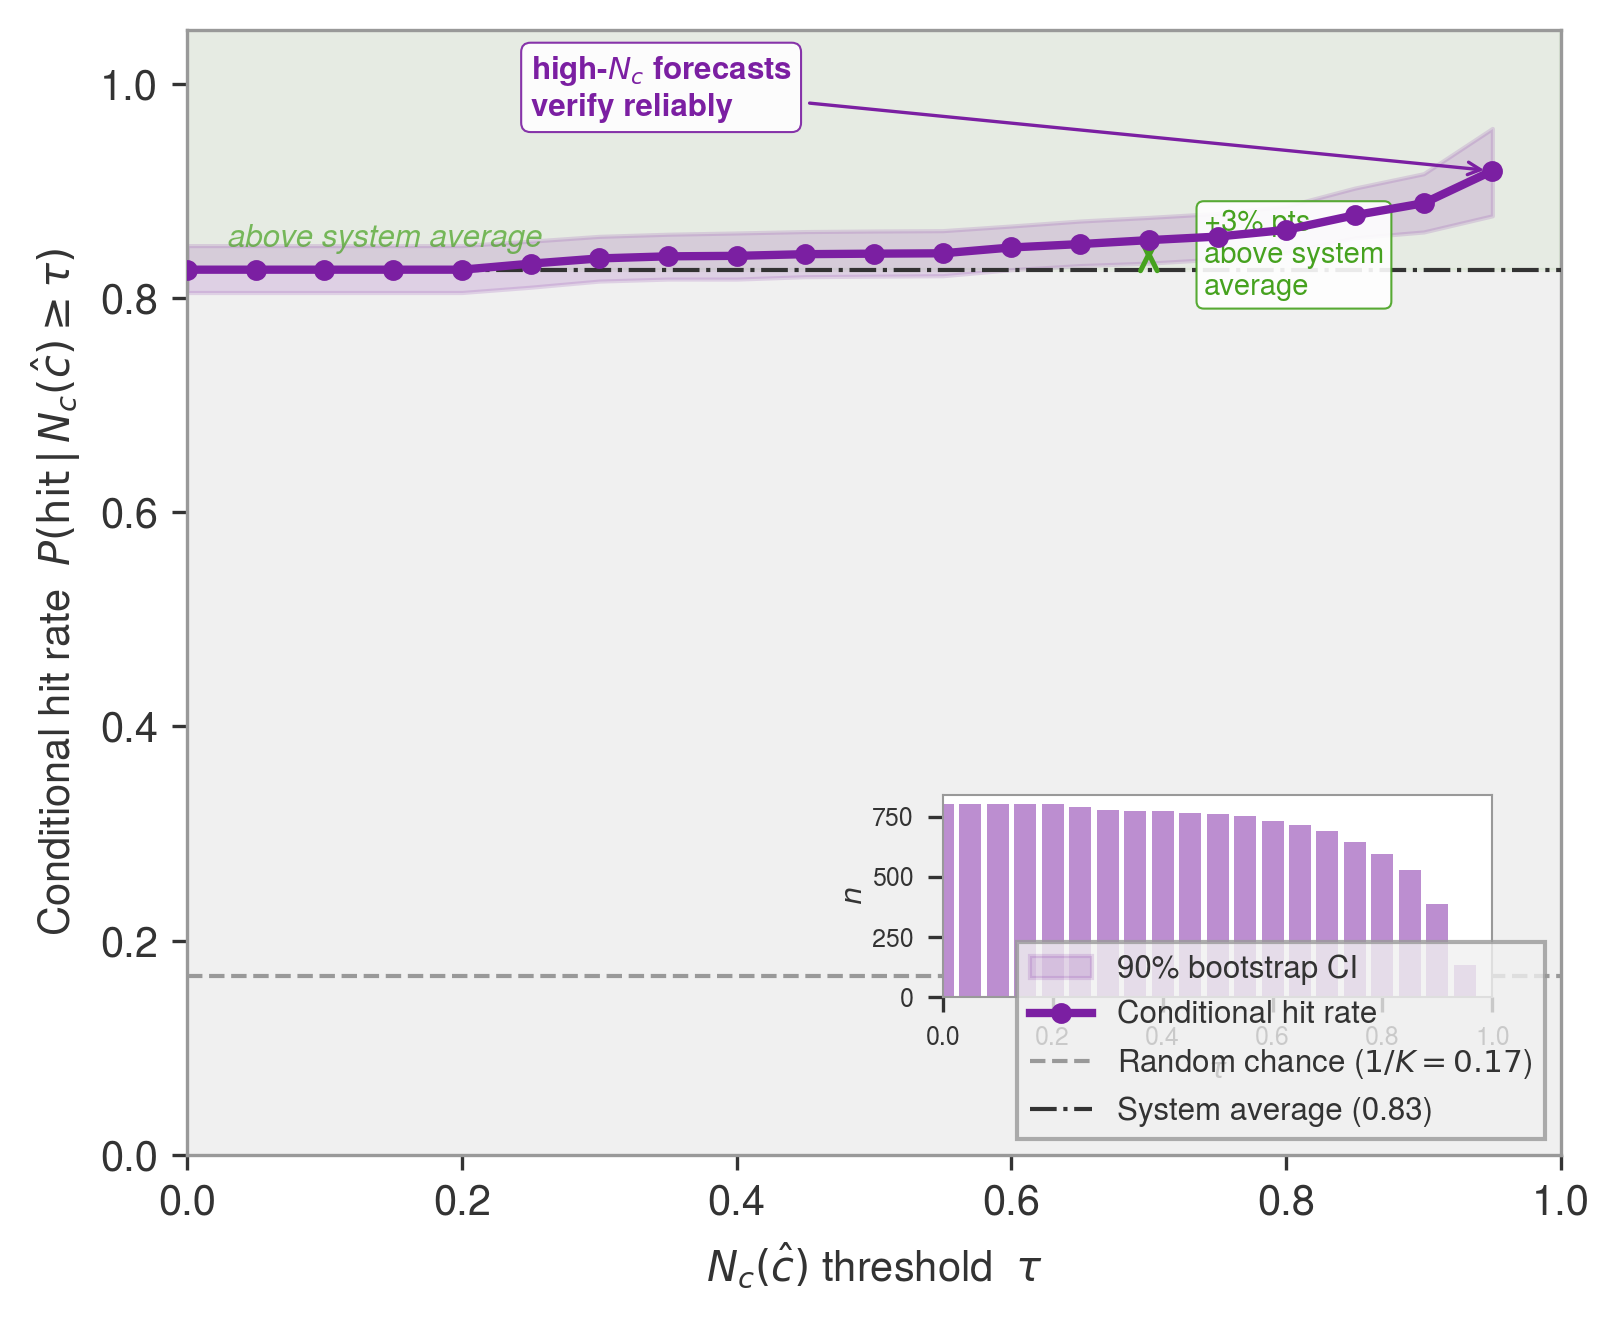
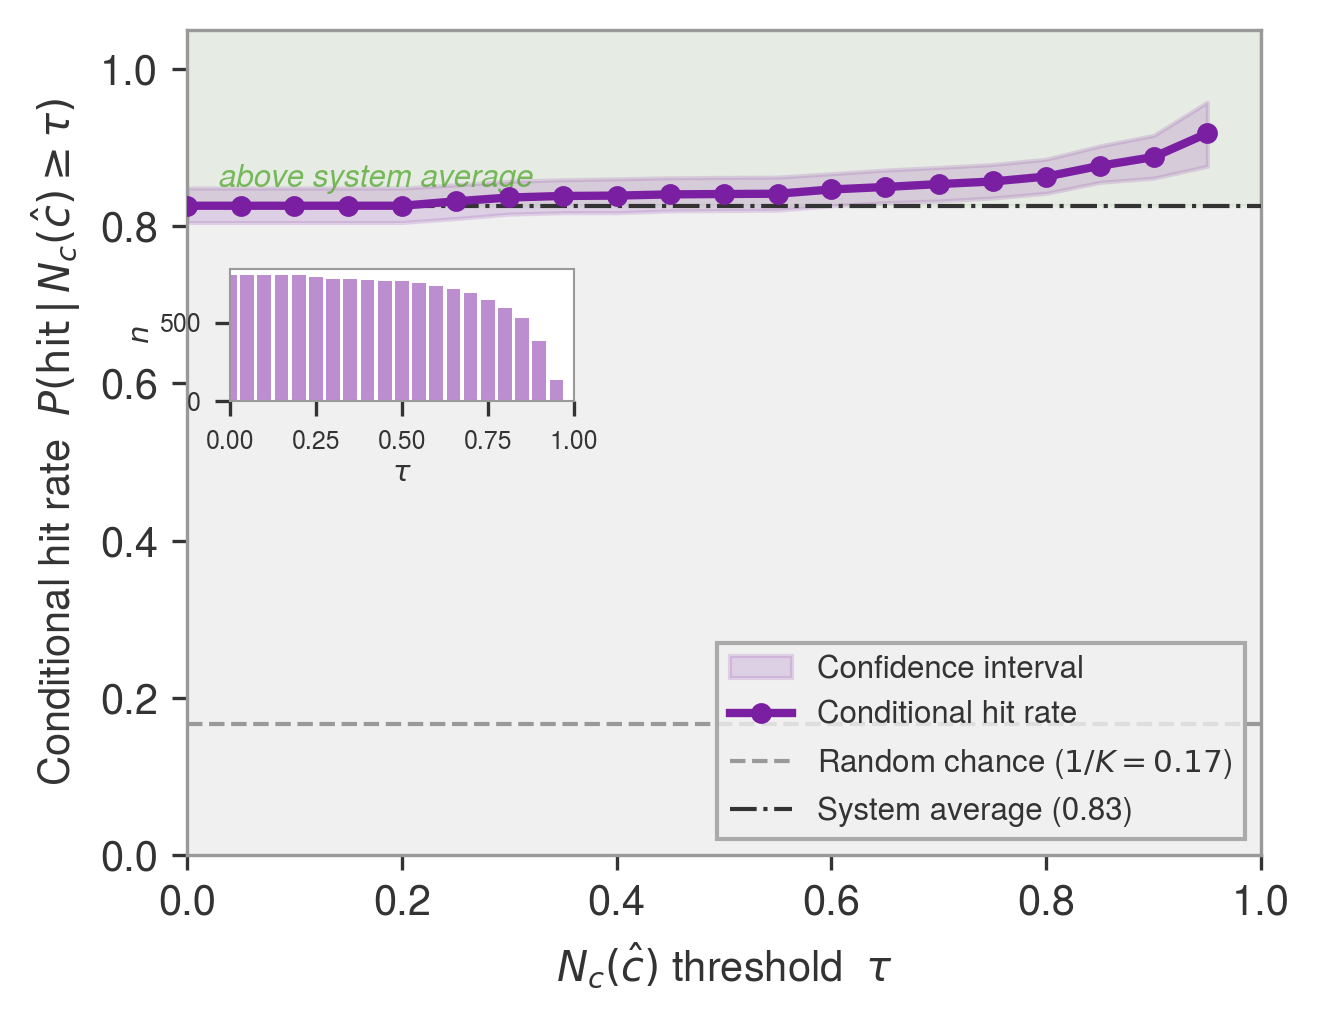
Figure polish, POD/FAR/CSI definitions, narrative improvements
Hexbin: removed smooth spline + labels from trajectory (dots only),
removed compass annotations from both diagnostic diagrams, replaced
dual colorbar with single purple H_Pi bar. Caption updated with CSI
analogue for S contours and "upper right = ideal" framing.

Reliability figure: shrunk to 0.75-column, moved inset to upper-left,
removed callout annotations, simplified CI label. Body text now
explains why curve is flat (high baseline) and why uptick is notable.

Defined POD, FAR, CSI, HSS inline at first mention (§5) with formulas.
Added forward pointer in introduction for categorical-metric readers.
Expanded figure narration for categorical scores, IG decomposition,
and commitment diagram. Simplified synthetic-data h passage.

diff --git a/sections/05-native-verification.tex b/sections/05-native-verification.tex
@@ -286,12 +286,12 @@ peak:
 \end{equation}
 where $\sigma$ is a category-dependent spread parameter (mean $\bar\sigma
 \approx 2.6$ for \spc{NONE}, $\approx 0.7$ for \spc{HIGH}) and the
-uniform noise term breaks symmetry.  The resulting distribution is
-rescaled to impose a category-dependent ignorance level: $\pi \gets \pi
-\cdot (1 - h) / \max(\pi)$, where $h \sim
-\mathcal{N}(\mu_h(c),\,\sigma_h(c))$ with $\mu_h$ ranging from $0.06$
-(\spc{NONE}) to $0.52$ (\spc{HIGH}), reflecting the operational reality
-that rare-event forecasts carry more uncertainty.
+uniform noise term breaks symmetry.  Finally, the distribution is rescaled so that its peak value equals
+$1 - h$, where $h$ is a randomly drawn ignorance level that increases
+with category rarity: mean ignorance is approximately $0.06$ for
+\spc{NONE} (very confident) and $0.52$ for \spc{HIGH} (substantially
+uncertain), reflecting the operational reality that rare-event forecasts
+carry more uncertainty.
 
 These choices produce a dataset with category-dependent accuracy and
 confidence gradients mimicking a realistic but imperfect possibilistic
@@ -307,20 +307,21 @@ from this synthetic population.
 \includegraphics[width=\columnwidth]{perf_hexbin_trajectory.png}
 \caption{Possibilistic performance diagram for the 800-day synthetic
     reforecast, inspired by \citet{Roebber2009-rv}.
-    \textbf{Hex bins:} colour is mean $\ign$ (dark purple = confident).
-    \textbf{Contours:} joint skill $S = \alpha^* \times (1 - \eta)$.
+    \textbf{Hex bins:} colour encodes mean $\ign$ (dark purple =
+    confident, pale = uncertain).
+    \textbf{Contours:} joint skill
+    $S = \alpha^* \times (1 - \eta)$, the possibilistic analogue of
+    CSI---$S$ is maximised in the upper right where forecasts are both
+    sharp (high specificity) and truthful (high depth-of-truth).
     \textbf{Dashed diagonal:} $\delta = 0$ break-even; above this line
     the forecast discriminated, below it the truth received less support
     than the categorical average.
-    \textbf{Green line:} category-conditional means from \spc{NONE}
-    (easy, upper right) to \spc{HIGH} (rare, lower left); dot
-    size $\propto$ sample count; shade encodes $\ign$ (dark green
-    = confident).
+    \textbf{Green dots:} category-conditional means (dot size $\propto$
+    sample count), tracing the progression from easy categories (upper
+    right) to rare ones (lower left).
     \textbf{Stars:} worked scenarios from
     Section~\ref{sec:worked_examples} (green edge = hit, red = miss).
-    Upper right is ideal (sharp and truthful); lower right is the worst
-    failure mode (sharp and wrong).  The trajectory's slope reveals
-    where skill degrades fastest.}
+    Lower right is the worst failure mode (sharp and wrong).}
 \label{fig:performance_diagram}
 \end{figure}
 
@@ -332,17 +333,16 @@ analogy with the \citet{Roebber2009-rv} performance diagram is
 deliberate: specificity plays the role of success ratio, $\alpha^*$
 plays the role of POD, and the
 $S = \alpha^* \times (1 - \eta)$ hyperbolas play the role of CSI
-contours.  The key addition is ignorance, encoded as bin colour, which
-has no deterministic analogue.
+contours---all three axes are maximised in the upper right.  The key
+addition is ignorance, encoded as bin colour, which has no categorical
+analogue.
 
 The hex density forms a diagonal band from upper right to lower left,
-dominated by \spc{NONE} days (dark purple: confident).  The green
-trajectory sits above the hex mass for rare categories because it shows
-\textit{conditional} means---averaging only cases verified against each
-category---while the hexagons show the marginal distribution of all
-forecasts.  The trajectory's steep descent from \spc{NONE} to
-\spc{HIGH} reveals the system's breaking point: skill degrades fastest
-between \spc{SLGT} and \spc{ENH}, where predictability drops sharply.
+dominated by \spc{NONE} days (dark purple: confident).  Green dots
+mark category-conditional means; their descent from \spc{NONE} (upper
+right) to \spc{HIGH} (lower left) reveals the system's breaking point:
+skill degrades fastest between \spc{SLGT} and \spc{ENH}, where
+predictability drops sharply.
 
 \begin{figure}[t]
 \centering
@@ -355,8 +355,8 @@ between \spc{SLGT} and \spc{ENH}, where predictability drops sharply.
     These axes are orthogonal: $\pi_{\max}$ is the raw scale of $\pi$;
     $\delta$ is the quality of the normalised shape $\pi'$.
     \textbf{Hex bins:} coloured by count.
-    \textbf{Green line:} category means from \spc{NONE} (upper right)
-    to \spc{HIGH} (lower left).
+    \textbf{Green dots:} category-conditional means from \spc{NONE}
+    (upper right) to \spc{HIGH} (lower left).
     \textbf{Stars:} Section~\ref{sec:worked_examples} scenarios.
     Upper right = committed and discriminating (ideal);
     lower right = overconfident and wrong;
@@ -377,10 +377,10 @@ hexagons emerge: one in the upper right (confident and correct---mostly
 \spc{NONE} days) and one in the lower right (confident and
 wrong---forecasts that committed heavily but missed).  The lighter band
 between them contains the hedged severe-weather forecasts.  The green
-trajectory arcs from \spc{NONE} (upper right) through the severe
-categories, staying above $\delta = 0$ for all categories on
-average---even rare-event forecasts discriminate in aggregate, though
-with lower commitment.  Scenario~C (sharp-wrong) sits in the
+dots (category-conditional means) arc from \spc{NONE} (upper right)
+through the severe categories, staying above $\delta = 0$ for all
+categories on average---even rare-event forecasts discriminate in
+aggregate, though with lower commitment.  Scenario~C (sharp-wrong) sits in the
 overconfident quadrant; Scenario~B (hedged-correct) sits in the
 cautious-discriminating region---a distinction invisible in the
 shape-quality diagram alone.

diff --git a/sections/06-tripartite-value.tex b/sections/06-tripartite-value.tex
@@ -64,28 +64,29 @@ threshold $\tau$, does the conditional hit rate exceed climatology?
 If so, high-necessity forecasts identify genuinely confident
 predictions---not just lucky ones.
 
-Figure~\ref{fig:reliability} illustrates this assessment using the
-shared synthetic reforecast.  $\Nc$ is computed at the \emph{predicted}
-(mode) category, not the observed one: the question is whether high
-$\Nc$ of the system's top pick is a reliable confidence signal.  Two
-baselines are shown: random chance ($1/K$) and the system's
-unconditional mode accuracy.  The curve rises above the system average
-at high thresholds, confirming that $\Nc$ carries diagnostic
-information---forecasts where the mode strongly dominates all
-alternatives verify more reliably than the system average.
+Figure~\ref{fig:reliability} tests this by plotting the conditional hit
+rate against the $\Nc$ threshold~$\tau$: at each $\tau$, only
+forecasts whose mode has $\Nc(\hat{c}) \geq \tau$ are included.  The
+curve is nearly flat because the synthetic system already has a high
+baseline accuracy (${\sim}83\%$).  The modest tick-up at high
+thresholds ($\tau > 0.8$) is notable: it confirms that the most
+confident forecasts---where the mode strongly dominates all
+alternatives---verify even more reliably, so $\Nc$ carries a genuine
+confidence signal.  With real data or a weaker baseline system, this
+separation would be more pronounced.
 
 \begin{figure}[t]
 \centering
-\includegraphics[width=\columnwidth]{reliability_curves.png}
-\caption{Reliability of conditional necessity for the synthetic
-    reforecast.  The purple curve shows the conditional hit rate among
-    forecasts whose mode has $\Nc(\hat{c}) \geq \tau$.
-    Two baselines: random chance ($1/K$, dashed) and the system's
-    unconditional mode accuracy (dot-dashed).  The curve rises above
-    the system average at high $\tau$, confirming that strong
-    conditional necessity identifies genuinely confident
-    predictions.  Shaded band: 90\% bootstrap CI.  Inset: sample size
-    per threshold.}
+\includegraphics[width=0.75\columnwidth]{reliability_curves.png}
+\caption{Conditional hit rate vs.\ $\Nc(\hat{c})$ threshold for the
+    synthetic reforecast.  At each $\tau$, only forecasts with
+    $\Nc(\hat{c}) \geq \tau$ are retained; the purple curve shows
+    their hit rate.  Baselines: random chance ($1/K$, dashed) and
+    unconditional system accuracy (dot-dashed).  Shaded band: notional
+    confidence interval.  Inset: declining sample size at high $\tau$.
+    The near-flat curve reflects the synthetic system's high baseline
+    accuracy; the uptick at $\tau > 0.8$ confirms that $\Nc$ adds a
+    genuine confidence signal.}
 \label{fig:reliability}
 \end{figure}
 
@@ -97,10 +98,16 @@ metrics to evaluate forecast quality.  No single facet captures the full
 picture, because each answers a different question and each has a blind
 spot the others fill.
 
-The \textbf{categorical facet} (POD, FAR, CSI per threshold; HSS) asks
-``did the mode-based point forecast identify the correct severity
-category?''  It discards all distributional information: a correct mode
-says nothing about sharpness, hedging, or confidence.
+The \textbf{categorical facet} reduces each distribution to its mode
+$\hat{c} = \arg\max \pi(\omega)$ and applies threshold-based
+contingency scores: probability of detection
+(POD~$=$~hits\,/\,(hits\,+\,misses)), false alarm ratio
+(FAR~$=$~false alarms\,/\,(hits\,+\,false alarms)), critical success
+index (CSI~$=$~hits\,/\,(hits\,+\,misses\,+\,false alarms)), and the
+Heidke skill score (HSS) from the full $K \times K$ confusion matrix.
+It asks ``did the mode-based point forecast identify the correct
+severity category?'' and discards all distributional information: a
+correct mode says nothing about sharpness, hedging, or confidence.
 
 The \textbf{probabilistic facet} (IG via probability conversion) asks
 ``was the probabilistic forecast informative?''  The conversion is

diff --git a/scripts/fig_perf_iterate.py b/scripts/fig_perf_iterate.py
@@ -211,12 +211,7 @@ def draw_traj_spec_alpha(ax, means, color=GREEN, gcmap=None, gnorm=None):
     ys = [means[c]['alpha'] for c in cats]
     ns = [means[c]['n'] for c in cats]
 
-    xs_s, ys_s = _smooth_path(xs, ys)
-    ax.plot(xs_s, ys_s, '-', color="white", lw=6, zorder=4,
-            solid_capstyle="round")
-    ax.plot(xs_s, ys_s, '-', color=color, lw=2.5, zorder=5,
-            solid_capstyle="round")
-
+    # Dots only (no smooth spline, no labels)
     s_min, s_max = 60, 350
     mx = max(ns)
     sizes = [s_min + (s_max - s_min) * (n / mx) for n in ns]
@@ -230,8 +225,6 @@ def draw_traj_spec_alpha(ax, means, color=GREEN, gcmap=None, gnorm=None):
     else:
         ax.scatter(xs, ys, s=sizes, fc=color, ec="white", lw=2.0, zorder=6)
         ax.scatter(xs, ys, s=sizes, fc=color, ec=DARK_GREY, lw=0.8, zorder=7)
-
-    _traj_labels(ax, cats, xs, ys, ns, color)
 
 
 def draw_traj_commit(ax, means, color=GREEN, fontsize=6.5,
@@ -245,12 +238,7 @@ def draw_traj_commit(ax, means, color=GREEN, fontsize=6.5,
     ys = [means[c]['delta'] for c in cats]
     ns = [means[c]['n'] for c in cats]
 
-    xs_s, ys_s = _smooth_path(xs, ys)
-    ax.plot(xs_s, ys_s, '-', color="white", lw=6, zorder=4,
-            solid_capstyle="round")
-    ax.plot(xs_s, ys_s, '-', color=color, lw=2.5, zorder=5,
-            solid_capstyle="round")
-
+    # Dots only (no smooth spline, no labels)
     s_min, s_max = 60, 350
     mx = max(ns)
     sizes = [s_min + (s_max - s_min) * (n / mx) for n in ns]
@@ -264,8 +252,6 @@ def draw_traj_commit(ax, means, color=GREEN, fontsize=6.5,
     else:
         ax.scatter(xs, ys, s=sizes, fc=color, ec="white", lw=2.0, zorder=6)
         ax.scatter(xs, ys, s=sizes, fc=color, ec=DARK_GREY, lw=0.8, zorder=7)
-
-    _traj_labels(ax, cats, xs, ys, ns, color, fontsize=fontsize)
 
 
 # ------------------------------------------------------------------ #
@@ -306,23 +292,9 @@ def v3b(data, ap, spec, anchors):
     draw_traj_spec_alpha(ax, means, gcmap=gcm, gnorm=nm)
     draw_scenarios_spec_alpha(ax, anchors)
 
-    # Compass: upper-right corner, within axes bounds
-    ax.annotate("", xy=(0.98, 1.01), xytext=(0.85, 0.88),
-                arrowprops=dict(arrowstyle="->,head_width=0.4,head_length=0.3",
-                                color=DARK_GREY, lw=2.0),
-                zorder=10)
-    ax.text(0.84, 1.02, "sharp +\ntruthful", fontsize=7,
-            fontstyle="italic", color=DARK_GREY, ha="center", va="bottom",
-            zorder=10)
-
-    # Dual colorbar: purple | green touching, shared label
-    gradient = np.linspace(nm.vmin, nm.vmax, 256)
-    p_colors = cm(nm(gradient))
-    g_colors = gcm(nm(gradient))
-    dual = np.stack([p_colors, g_colors], axis=1)
-    cax.imshow(dual, aspect='auto', origin='lower',
-               extent=[0, 1, nm.vmin, nm.vmax])
-    cax.set_xticks([])
+    # Single purple colorbar for hexbin H_Pi
+    from matplotlib.colorbar import ColorbarBase
+    cb = ColorbarBase(cax, cmap=cm, norm=nm, orientation='vertical')
     cax.yaxis.tick_right()
     cax.yaxis.set_label_position("right")
     cax.set_ylabel(r"Mean $H_\Pi$" + "\n(dark = confident)", fontsize=7)
@@ -404,7 +376,6 @@ def v4b(data, ap, spec, anchors):
 
     draw_traj_commit(ax, means, gcmap=gcm, gnorm=gnm)
     draw_scenarios_commit(ax, anchors)
-    draw_compass(ax, 0.95, 0.72, "better")
 
     # Manual colorbar
     from matplotlib.colorbar import ColorbarBase

diff --git a/scripts/fig_reliability_curves.py b/scripts/fig_reliability_curves.py
@@ -77,7 +77,7 @@ def main():
     random_base = 1.0 / SPC_N
     uncond_acc = hits.mean()  # system's unconditional mode accuracy
 
-    fig, ax = plt.subplots(figsize=(5.5, 4.5))
+    fig, ax = plt.subplots(figsize=(4.5, 3.5))
 
     # --- Skill region: shade above unconditional accuracy ---
     ax.axhspan(uncond_acc, 1.05, color=GREEN, alpha=0.06, zorder=0)
@@ -87,7 +87,7 @@ def main():
 
     # --- Bootstrap confidence band ---
     ax.fill_between(thresholds, ci_lo, ci_hi, color=PURPLE, alpha=0.15,
-                    zorder=2, label="90% bootstrap CI")
+                    zorder=2, label="Confidence interval")
 
     # --- Reliability curve ---
     ax.plot(thresholds, cond_hit, color=PURPLE, linewidth=2.0, marker="o",
@@ -99,37 +99,6 @@ def main():
     ax.axhline(uncond_acc, linestyle="-.", linewidth=1.0, color=DARK_GREY,
                zorder=3, label=f"System average ({uncond_acc:.2f})")
 
-    # --- Interpretive annotation: gain over system average ---
-    t_ann = 0.70
-    idx_ann = np.argmin(np.abs(thresholds - t_ann))
-    hr_ann = cond_hit[idx_ann]
-    if not np.isnan(hr_ann) and hr_ann > uncond_acc:
-        ax.annotate(
-            "",
-            xy=(t_ann, uncond_acc), xytext=(t_ann, hr_ann),
-            arrowprops=dict(arrowstyle="<->", color=GREEN, lw=1.2),
-        )
-        gain_pp = hr_ann - uncond_acc
-        ax.text(t_ann + 0.04, (uncond_acc + hr_ann) / 2,
-                f"+{gain_pp:.0%} pts\nabove system\naverage",
-                fontsize=7, color=GREEN, va="center",
-                bbox=dict(boxstyle="round,pad=0.25", fc="white", ec=GREEN,
-                          lw=0.5, alpha=0.9))
-
-    # Annotate the high-confidence region
-    valid_high = [i for i, c in enumerate(counts) if c >= 10]
-    if valid_high:
-        last_valid = valid_high[-1]
-        ax.annotate(
-            "high-$N_c$ forecasts\nverify reliably",
-            xy=(thresholds[last_valid], cond_hit[last_valid]),
-            xytext=(0.25, 0.97),
-            fontsize=7.5, fontweight="bold", color=PURPLE,
-            arrowprops=dict(arrowstyle="->", color=PURPLE, lw=0.8),
-            bbox=dict(boxstyle="round,pad=0.3", fc="white", ec=PURPLE,
-                      lw=0.5, alpha=0.9),
-        )
-
     ax.set_xlabel(r"$N_c(\hat{c})$ threshold  $\tau$", fontsize=10)
     ax.set_ylabel("Conditional hit rate  "
                   r"$P(\mathrm{hit}\,|\,N_c(\hat{c}) \geq \tau)$",
@@ -139,8 +108,8 @@ def main():
     ax.legend(loc="lower right", fontsize=7.5, frameon=True, fancybox=False,
               edgecolor=MID_GREY)
 
-    # --- Inset: sample size per threshold ---
-    ax_inset = ax.inset_axes([0.55, 0.14, 0.40, 0.18])
+    # --- Inset: sample size per threshold (upper left) ---
+    ax_inset = ax.inset_axes([0.04, 0.55, 0.32, 0.16])
     ax_inset.bar(thresholds, counts, width=0.04, color=PURPLE, alpha=0.5,
                  edgecolor="none")
     ax_inset.set_ylabel("$n$", fontsize=7, labelpad=1)

diff --git a/sections/07-worked-examples.tex b/sections/07-worked-examples.tex
@@ -124,10 +124,19 @@ $\hat{c} = \spc{NONE}$ while $c_{\mathrm{obs}} = \spc{MDT}$---a miss
 at every threshold, yielding POD~$= 0$ across the board.
 
 Figure~\ref{fig:categorical_scores} places these cases in the context of
-the 800-day synthetic reforecast.  Panel~(a) shows how POD, success
-ratio, and CSI degrade as the severity threshold rises.  Panel~(b)
-reveals that mode errors cluster near the diagonal---predominantly
-near-miss rather than catastrophic.
+the 800-day synthetic reforecast.  Panel~(a) shows how POD (purple),
+success ratio $1 - \mathrm{FAR}$ (green), and CSI (dashed) degrade as
+the severity threshold rises: the system detects \spc{MRGL}+ events
+reliably but struggles at \spc{MDT}+ and above, where both POD and CSI
+drop sharply.  Scenarios~A and~B register as hits at their respective
+thresholds (green labels); Scenario~C misses everywhere (red cross).
+Panel~(b) shows the full $K \times K$ confusion matrix: diagonal
+dominance confirms that the system's mode forecast is broadly accurate,
+while the near-diagonal clustering of errors means misses are typically
+$\pm 1$ category rather than catastrophic.  The HSS of $0.708$ is
+strong but not exceptional---the categorical facet alone cannot
+distinguish the confident sharp-correct forecast (A) from an equally
+accurate but heavily hedged one.
 
 %----------------------------------------------------------
 \subsection{Probabilistic Example}\label{sec:bridge_walkthrough}

diff --git a/sections/04-pignistic-bridge.tex b/sections/04-pignistic-bridge.tex
@@ -155,8 +155,14 @@ logarithmic counterpart of the Brier score's three-component breakdown
 ($\mathrm{BS} = \mathrm{REL} - \mathrm{RES} + \mathrm{UNC}$) but
 operates in bits---additive, interpretable information units.
 
-Figure~\ref{fig:ig_decomp} illustrates the decomposition for several
-forecast scenarios with net IG annotated.
+Figure~\ref{fig:ig_decomp} illustrates the decomposition for five
+forecast archetypes.  The key contrast is between Sharp Correct
+(nearly all discrimination retained, IG~$= +1.75$~bits) and Sharp
+Wrong (the calibration penalty consumes the discrimination entirely
+and extends below zero, IG~$= -0.75$~bits).  Hedged Wrong shows
+modest discrimination but the reliability tax swamps it---a system
+that hedges across wrong categories is penalised less harshly than
+one that commits confidently to the wrong answer.
 
 \begin{figure}[!b]
 \centering

diff --git a/sections/02-introduction.tex b/sections/02-introduction.tex
@@ -113,6 +113,11 @@ five-number scorecard for possibilistic evaluation, a
 possibility-to-probability conversion that preserves ignorance as an
 explicit outcome, and a categorical verification facet using
 threshold-based scores familiar to operational meteorologists.
+Readers familiar with categorical verification (POD, FAR, CSI) may
+note that reducing a possibility distribution to its mode discards most
+of the distributional information that makes possibilistic forecasts
+distinctive; Section~\ref{sec:tripartite_value} formalises this
+observation and shows what each verification approach misses.
 The remainder of this paper is organised as follows.
 Section~\ref{sec:poss_primer} introduces the mathematical foundations of
 possibility theory, emphasising subnormal distributions and the
